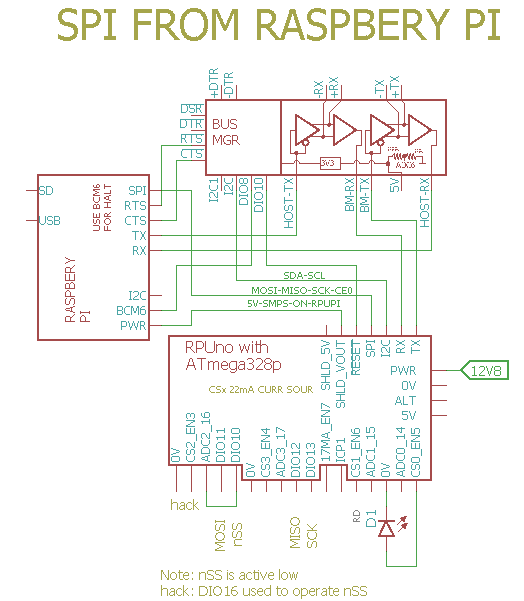
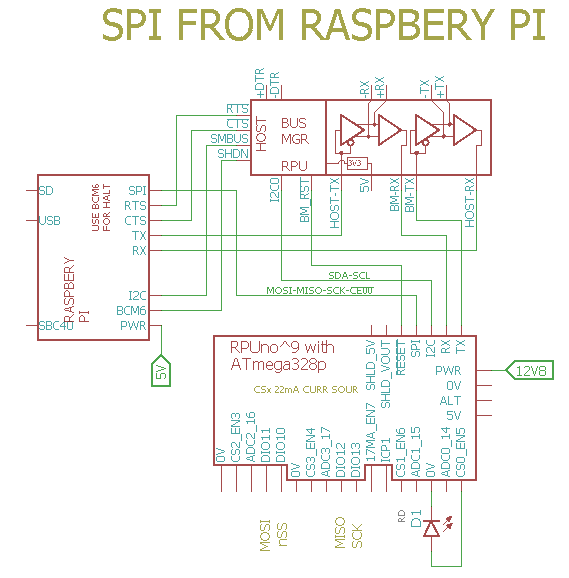
SpiSlv: remove ADC2 notes

Changed region(s): [[0.0611, 0.0, 0.9771, 0.9965]]

diff --git a/SpiSlv/README.md b/SpiSlv/README.md
@@ -2,7 +2,7 @@
 
 ## Overview
 
-SPI slave with an interactive command line program. CS0 is used to operate a status LED. DIO16 (ADC2) is used to drive nSS (which is on DIO10) to enable slave functions (Note: nSS is not connected on the RPUpi board).
+SPI slave is an interactive command line program. CS0 is used to operate a status LED. nSS must be connected to Raspberry PI nCE00 pin (fixed on RPUpi^5).
 
 
 ## Pi SPI
@@ -45,7 +45,7 @@ FF DE AD BE EF BA
 AD F0
 ``` 
 
-Note: The output is offset a byte since it was sent back from the AVR. I see errors at 1MHz and 2MHz. The RPUpi^3 has a 74LVC07 buffer that pulls down through a 10kOhm resistor on SCK and MOSI. The circuit between that resistor and the AVR has some capacitance which will limit the speed (if there is a need for higher speed it may be possible to use a 1k resistor).
+Note: The output is offset a byte since it was sent back from the AVR. 
 
 
 ## Wiring Setup
@@ -55,29 +55,33 @@ Note: The output is offset a byte since it was sent back from the AVR. I see err
 
 ## Firmware Upload
 
-With a serial port connection (set the BOOT_PORT in Makefile) and optiboot installed on the RPUno run 'make bootload' and it should compile and then flash the MCU.
+If the host computer is a Raspberry Pi the rpubus manager needs set so that it can bootload. Connect with picocom (or ilk).
 
 ``` 
-rsutherland@pi1:~/Samba/RPUno/SpiSlv$ make bootload
-...
-avrdude done.  Thank you.
-``` 
-
-Now connect with picocom (or ilk). Note I am using a Headless Pi Zero (e.g. through SSH). The Samba folder is for editing the files from Windows.
-
-``` 
-#exit is C-a, C-x
 picocom -b 38400 /dev/ttyAMA0
-# setup bus manager using sneaky mode (requires I2C commands in firmware)
 /1/iaddr 41
 {"address":"0x29"}
+#set a rpubus bootload address
 /1/ibuff 3,49
 {"txBuffer[2]":[{"data":"0x3"},{"data":"0x31"}]}
 /1/iread? 2
 {"rxBuffer":[{"data":"0x3"},{"data":"0x31"}]}
+#clear the bus manager status bits so the host can bootload
 /1/ibuff 7,0
 {"txBuffer[2]":[{"data":"0x7"},{"data":"0x0"}]}
 /1/iread? 2
+#exit is C-a, C-x
+``` 
+
+With a serial port connection and optiboot installed on the RPUno run 'make bootload' and it should compile and then flash the MCU.
+
+``` 
+sudo apt-get install make git gcc-avr binutils-avr gdb-avr avr-libc avrdude
+git clone https://github.com/epccs/RPUno/
+cd /RPUno/SpiSlv
+make bootload
+...
+avrdude done.  Thank you.
 ``` 
 
 # Commands
